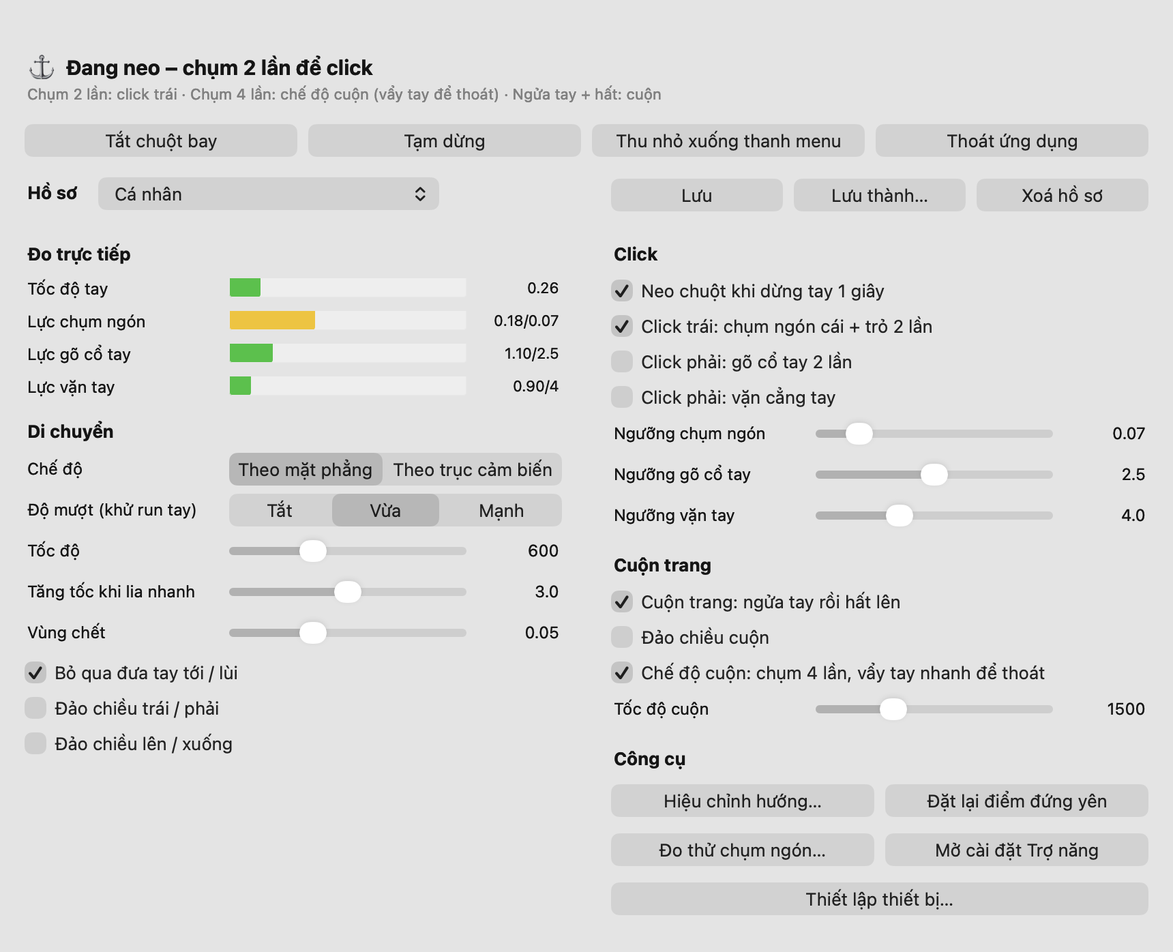
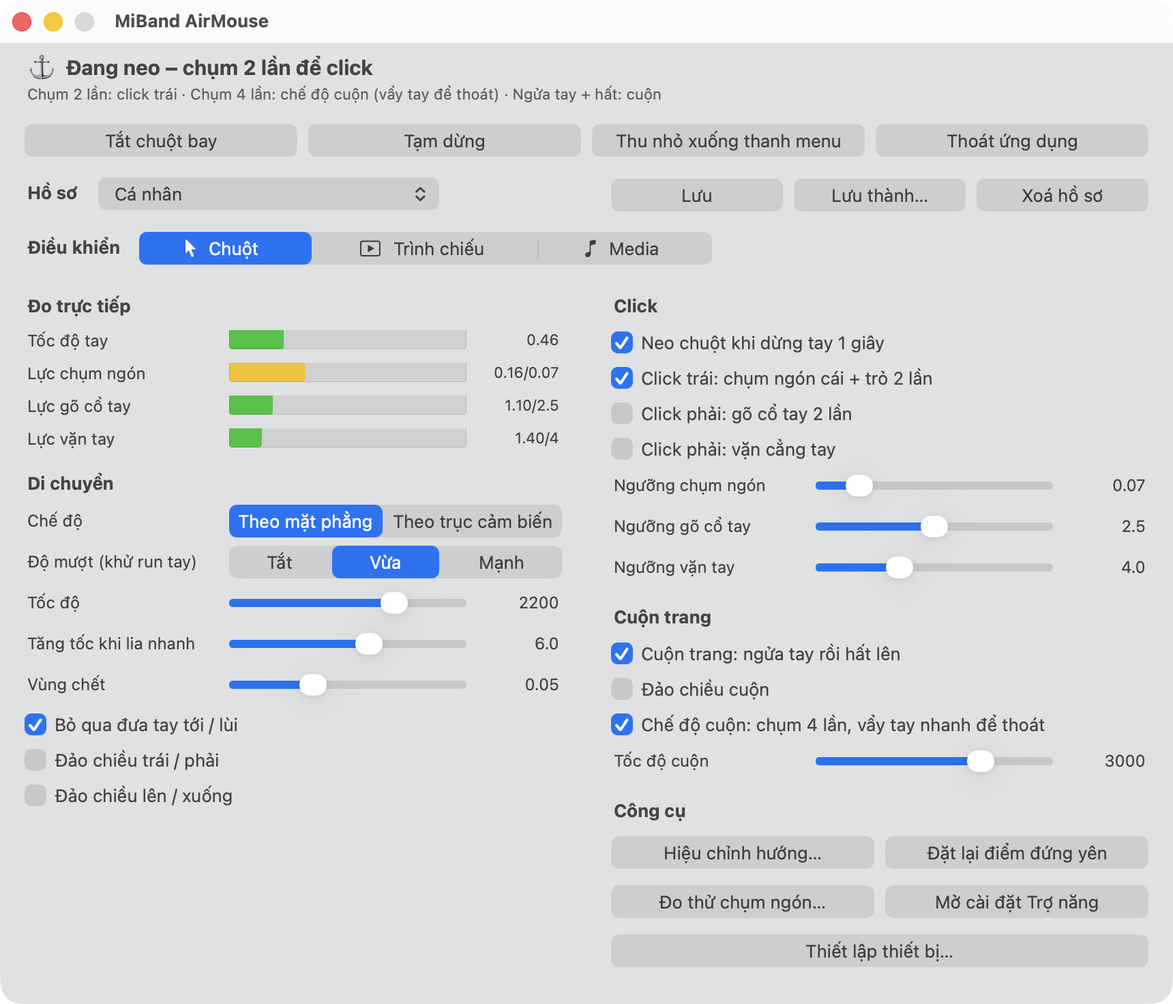
Add control modes: mouse, presenter and media (v1.3.0)
A picker in the control window (and the menu bar) chooses what the band
drives. In presenter and media modes the cursor stays still: a double
pinch is next slide / play-pause, quick straight swipes send arrow keys
or media keys (track, volume). The hand's way back after a swipe is
ignored for 0.8s. The guide gets a section on the modes and a new
control window picture.

diff --git a/docs/index.html b/docs/index.html
@@ -180,6 +180,7 @@ html { scroll-behavior: smooth; }
       <li><a href="#hieu-chinh">Hiệu chỉnh hướng</a></li>
       <li><a href="#trang-thai">Đọc biểu tượng trạng thái</a></li>
       <li><a href="#cu-chi">Các cử chỉ</a></li>
+      <li><a href="#che-do">Chế độ Trình chiếu và Media</a></li>
       <li><a href="#tinh-chinh">Tinh chỉnh và hồ sơ</a></li>
       <li><a href="#su-co">Xử lý sự cố</a></li>
     </ol>
@@ -291,6 +292,8 @@ html { scroll-behavior: smooth; }
         <div class="icon-row"><span class="glyph">⌚⚓</span><span>Chuột đang neo, sẵn sàng click</span></div>
         <div class="icon-row"><span class="glyph">⌚⇕</span><span>Chế độ cuộn (chụm 4 lần)</span></div>
         <div class="icon-row"><span class="glyph">⌚⇅</span><span>Đang ngửa tay để cuộn nhanh</span></div>
+        <div class="icon-row"><span class="glyph">⌚▶</span><span>Chế độ Trình chiếu</span></div>
+        <div class="icon-row"><span class="glyph">⌚♫</span><span>Chế độ Media</span></div>
         <div class="icon-row"><span class="glyph">⌚‖</span><span>Tạm dừng</span></div>
         <div class="icon-row"><span class="glyph">⌚!</span><span>Có lỗi, xem dòng trạng thái</span></div>
       </div>
@@ -418,17 +421,39 @@ html { scroll-behavior: smooth; }
       <p class="note">Click phải đang <strong>tắt</strong> theo mặc định, vì bấm ngón tay mạnh dễ bị nhận nhầm. Nếu cần, bật <b>Click phải: gõ cổ tay 2 lần</b> trong cửa sổ điều khiển. Khi đó gõ cổ tay ra trước 2 lần sẽ là click phải.</p>
     </section>
 
+    <section id="che-do">
+      <h2><span class="n">8</span>Chế độ Trình chiếu và Media</h2>
+      <p>Hàng <b>Điều khiển</b> ở đầu cửa sổ (hoặc mục <b>Che do dieu khien</b> trên thanh menu) chọn vòng tay dùng để làm gì. Ở <b>Trình chiếu</b> và <b>Media</b>, con trỏ đứng yên và cử chỉ trở thành lệnh, nên bạn có thể vừa nói vừa cầm vòng mà không lo chuột chạy lung tung.</p>
+      <div class="table-wrap">
+        <table>
+          <tr><th>Cử chỉ</th><th>Chuột</th><th>Trình chiếu</th><th>Media</th></tr>
+          <tr><td>Chụm 2 lần</td><td>Click trái</td><td>Slide tiếp</td><td>Phát / dừng</td></tr>
+          <tr><td>Lia tay nhanh sang phải</td><td>Di chuột</td><td>Slide tiếp</td><td>Bài sau</td></tr>
+          <tr><td>Lia tay nhanh sang trái</td><td>Di chuột</td><td>Slide trước</td><td>Bài trước</td></tr>
+          <tr><td>Lia tay nhanh lên / xuống</td><td>Di chuột</td><td>–</td><td>Tăng / giảm âm lượng</td></tr>
+          <tr><td>Chụm 4 lần, ngửa tay</td><td>Cuộn trang</td><td>–</td><td>–</td></tr>
+        </table>
+      </div>
+      <ul>
+        <li><b>Lia dứt khoát:</b> một cú lia nhanh, dài khoảng 10° trở lên, đi gần thẳng một hướng. Rê tay chậm hay lia chéo không tính.</li>
+        <li><b>Đưa tay về từ từ:</b> trong 0,8 giây sau một cú lia, động tác đưa tay về bị bỏ qua. Sau đó, đưa tay về chậm để không thành cú lia ngược lại.</li>
+        <li><b>Trình chiếu</b> gửi phím mũi tên phải / trái, chạy được với Keynote, PowerPoint, Google Slides và trình xem PDF. Hãy để cửa sổ trình chiếu ở phía trước.</li>
+        <li><b>Media</b> dùng phím phát nhạc của Mac, nên điều khiển được Apple Music, Spotify, YouTube trên trình duyệt…</li>
+        <li>Chụm 2 lần luôn hoạt động ở hai chế độ này, kể cả khi ô <b>Click trái</b> đang tắt. Chế độ đang chọn không lưu theo hồ sơ.</li>
+      </ul>
+    </section>
+
     <section id="tinh-chinh">
-      <h2><span class="n">8</span>Tinh chỉnh và hồ sơ</h2>
+      <h2><span class="n">9</span>Tinh chỉnh và hồ sơ</h2>
       <p>Bấm biểu tượng app trên Dock để mở cửa sổ điều khiển. Mọi thanh trượt có hiệu lực ngay khi kéo. Phần <b>Đo trực tiếp</b> cho thấy lực mỗi cử chỉ so với ngưỡng: thanh chuyển vàng khi vượt ngưỡng, nhờ vậy bạn biết nên chỉnh lên hay xuống.</p>
       <figure class="shot">
-        <img src="img/control.png" width="860" height="698" alt="Cửa sổ điều khiển với các thanh đo trực tiếp, thanh trượt và công tắc cử chỉ">
+        <img src="img/control.png" width="860" height="736" alt="Cửa sổ điều khiển với các thanh đo trực tiếp, thanh trượt và công tắc cử chỉ">
         <figcaption>Cửa sổ điều khiển. Thu nhỏ hoặc đóng thì app vẫn chạy trên thanh menu ⌚.</figcaption>
       </figure>
       <div class="table-wrap">
         <table>
           <tr><th>Muốn</th><th>Chỉnh</th></tr>
-          <tr><td>Tay di ít mà vẫn đi hết màn hình</td><td><b>Tăng tốc khi lia nhanh</b> lên khoảng 3–5. Giữ <b>Tốc độ</b> ở khoảng 600.</td></tr>
+          <tr><td>Tay di ít mà vẫn đi hết màn hình</td><td>Tăng <b>Tốc độ</b> (tối đa 3000) và <b>Tăng tốc khi lia nhanh</b> (tối đa 10). Nếu con trỏ bắt đầu rung, tăng thêm <b>Vùng chết</b>.</td></tr>
           <tr><td>Con trỏ rung khi nhắm</td><td><b>Độ mượt</b>: Mạnh. Hoặc tăng <b>Vùng chết</b> một chút.</td></tr>
           <tr><td>Chụm ngón hay bị hụt</td><td><b>Ngưỡng chụm ngón</b> khoảng <span class="mono">0.06–0.08</span>. Đừng hạ thấp hơn: khi đó cả rung lúc nhả ngón cũng bị đếm, làm click hụt nhiều hơn.</td></tr>
           <tr><td>Trang cuộn ngược ý</td><td>Bật <b>Đảo chiều cuộn</b>.</td></tr>
@@ -439,7 +464,7 @@ html { scroll-behavior: smooth; }
     </section>
 
     <section id="su-co">
-      <h2><span class="n">9</span>Xử lý sự cố</h2>
+      <h2><span class="n">10</span>Xử lý sự cố</h2>
       <div class="table-wrap">
         <table>
           <tr><th>Hiện tượng</th><th>Cách xử lý</th></tr>

diff --git a/app.py b/app.py
@@ -15,7 +15,7 @@ from collections import deque
 
 import Quartz
 import rumps
-from AppKit import NSApplication, NSApplicationActivationPolicyAccessory
+from AppKit import NSApplication, NSApplicationActivationPolicyAccessory, NSEvent
 
 from band import Band
 from watch_source import WatchSource
@@ -33,11 +33,12 @@ LOG = os.path.join(DATA, "app.log")
 REQUESTS = set()  # "show" / "quit" asked for by the Dock launcher's signals
 PARENT = os.getppid()  # the Dock launcher; if it dies without signalling, don't linger
 DEFAULT_PROFILE = "Mặc định"
-PROFILE_SKIP = {"gestures_v2", "gestures_v3"}
+PROFILE_SKIP = {"gestures_v2", "gestures_v3", "control_mode"}  # the mode is a moment's choice, not tuning
 
 SPEEDS = {"Cham": 300, "Vua": 600, "Nhanh": 1000}
 ACCELS = {"Tat": 0.0, "Vua": 1.5, "Manh": 3.0, "Rat manh": 5.0}
 MODES = {"Theo mat phang (khuyen dung)": "plane", "Theo truc cam bien (cu)": "axes"}
+CONTROL_MODES = {"Chuot": "mouse", "Trinh chieu": "slides", "Media (nhac, video)": "media"}
 CLICK_LEVELS = {"Nhay": 2.5, "Vua": 4.0, "Cung": 6.0}  # twist rate (gyro units) that counts as a click
 # Jolt (m/s^2) above which a transient is a wrist tap rather than a pinch; must stay between
 # the user's strongest pinch (1.2) and weakest tap (3.3).
@@ -56,6 +57,7 @@ DEFAULTS.update({"mode": "plane", "forearm_axis": "x", "invert_yaw": False, "inv
                  "pinch_enabled": True, "pinch_threshold": 0.1,  # rad/s gyro jerk (rest <0.021, pinches 0.19-0.40)
                  "scroll_enabled": True, "scroll_speed": 1500, "scroll_invert": False,  # px per rad of flick
                  "smoothing": "Vua", "drag_scroll_enabled": True,
+                 "control_mode": "mouse",  # or "slides" (presenter) / "media" (music, video)
                  "device": "miband"})  # or "applewatch"
 
 
@@ -109,6 +111,16 @@ JOY_DEAD = 0.05        # rad (~3 deg) of height change that doesn't scroll (rest
 JOY_CURVE = 1.7        # speed ~ (angle past JOY_DEAD)^JOY_CURVE: a slight tilt reads, a big one races
 JOY_GAIN = 3.0         # speed in px/s = scroll_speed * JOY_GAIN * angle^JOY_CURVE
 JOY_MAX = 0.8          # rad; tilting further doesn't scroll faster
+# Presenter / media modes: the cursor stays put; a quick swipe of the hand is a command.
+SWIPE_START = 0.8      # rad/s: hand speed above which a stroke is being collected
+SWIPE_RATE = 1.5       # rad/s peak a stroke needs to be a swipe (relaxed pointing ~0.5-1.5)
+SWIPE_ANGLE = 0.2      # rad (~11 deg) a swipe must travel
+SWIPE_RATIO = 1.5      # the main direction must be this much larger than the other
+SWIPE_GUARD = 0.8      # s after a swipe in which the hand's way back is ignored
+VOLUME_STEPS = 2       # volume key presses per swipe up/down
+KEY_RIGHT, KEY_LEFT = 124, 123        # macOS virtual key codes
+MEDIA_PLAY, MEDIA_NEXT, MEDIA_PREVIOUS = 16, 17, 18   # NX_KEYTYPE_* (ev_keymap.h)
+MEDIA_SOUND_UP, MEDIA_SOUND_DOWN = 0, 1
 SERIES_SETTLE = 0.25   # s after a toggle/click in which pinch echoes can't start a new series
 PINCH_CONFIRM = 0.12   # s after a pinch in which the hand must stay put for it to count
 CONFIRM_RATE = 0.35    # rad/s: average band rotation in that time above which it was a sweep starting
@@ -276,6 +288,8 @@ class Pointer:
         self.dragging = False      # scroll mode (toggled by four pinches)
         self.joy_ref = None        # forearm height (up . forearm axis) when scroll mode started
         self.joy_drop = 0.0        # integrated hand drop, when gravity can't tell (sensor-axis mode)
+        self.stroke = None         # [dx, dy, peak speed] of a possible swipe (presenter / media)
+        self.swipe_guard = 0.0
         self.pending_click = None  # time a double pinch turns into a click unless a 3rd pinch comes
         self.settle_until = 0.0
         self.tentative = None     # a pinch awaiting confirmation that the hand stayed put
@@ -413,7 +427,11 @@ class Pointer:
             self.bias = _add(_scale(self.bias, 0.95), _scale(mean, 0.05))
         self._check_rest(still, gyro, now)
 
-        self._update_palm(now)
+        mouse = self.s["control_mode"] == "mouse"
+        if not mouse and (self.dragging or self.palm_up):
+            self.dragging = self.palm_up = False  # scrolling belongs to mouse mode
+        if mouse:
+            self._update_palm(now)
         ax, ay, at = AXIS[self.s["axis_x"]], AXIS[self.s["axis_y"]], self.twist_axis()
         plane = self.s["mode"] == "plane"
         thr = self.s["click_threshold"]
@@ -466,6 +484,12 @@ class Pointer:
             else:
                 gx, gy = w[ax], w[ay]
                 inv_x, inv_y = self.s["invert_x"], self.s["invert_y"]
+            if not mouse:
+                # Presenter / media: the cursor stays put. Swipes are commands; the anchor still
+                # runs, so a resting hand's double pinch is heard.
+                self._swipe(gx * (-1 if inv_x else 1), gy * (-1 if inv_y else 1), ts, dt)
+                self._anchored(gx, gy, ts, dt, tapping)
+                continue
             if self.palm_up:
                 # Palm turned up: the cursor holds still and upward flicks scroll the page.
                 self._scroll_flick(gy * (1 if inv_y else -1), dt)  # physical upward speed
@@ -620,7 +644,7 @@ class Pointer:
         """After the hand rests for anchor_time the cursor locks in place, so small tremor and
         the jolt of tapping can't nudge it off the target. A deliberate move (net turn of
         ESCAPE_ANGLE of net travel, see below) releases it."""
-        if not self.s["anchor_enabled"]:
+        if not self.s["anchor_enabled"] and self.s["control_mode"] == "mouse":
             self.anchored = False
             return False
         # Judge rest on ~0.1s-averaged motion: single samples of hand tremor must not keep
@@ -744,7 +768,8 @@ class Pointer:
         elif kind == "tap":
             self.last_tap = start
         log(f"{kind or 'transient'} jolt={jolt:.2f} jerk={jerk:.3f} rate={rate:.2f} drift={drift:.2f}")
-        if not kind or not self.s[f"{kind}_enabled"]:
+        enabled = kind and (self.s[f"{kind}_enabled"] or kind == "pinch" and self.s["control_mode"] != "mouse")
+        if not enabled:
             return
         if kind == "pinch" and start < self.settle_until:
             log("pinch ignored (settling after a toggle/click)")
@@ -774,7 +799,8 @@ class Pointer:
             self.first = {}
             self._press(right=True)  # two wrist taps = right click
             return
-        enabled = self.s["drag_scroll_enabled"]
+        mouse = self.s["control_mode"] == "mouse"
+        enabled = self.s["drag_scroll_enabled"] and mouse
         if count >= SCROLL_PINCHES and enabled:
             self.first, self.pending_click = {}, None
             self._set_scroll_mode(not self.dragging, start)  # four pinches: scroll mode (on/off)
@@ -789,10 +815,72 @@ class Pointer:
                 self.pending_click = start + TRIPLE_GAP + EVENT_WINDOW + PINCH_CONFIRM
             else:
                 self.first = {}
-                self._press(right=False)  # two pinches = left click
+                if mouse:
+                    self._press(right=False)  # two pinches = left click
+                else:
+                    self._command("pinch")
                 self.settle_until = start + SERIES_SETTLE
         elif count == 3:
             self.pending_click = None  # three pinches: heading for four, not a click
+
+    def _swipe(self, sx, sy, ts, dt):
+        """A quick, mostly straight stroke of the hand (sx > 0 = right, sy > 0 = down, rad/s)
+        is a swipe, judged once the hand slows down again. Pointing-speed motion isn't."""
+        if ts < self.swipe_guard:
+            self.stroke = None  # the hand coming back after a swipe
+            return
+        speed = math.hypot(sx, sy)
+        if speed > SWIPE_START:
+            if self.stroke is None:
+                self.stroke = [0.0, 0.0, 0.0]
+            st = self.stroke
+            st[0], st[1], st[2] = st[0] + sx * dt, st[1] + sy * dt, max(st[2], speed)
+            return
+        if self.stroke is None:
+            return
+        dx, dy, peak = self.stroke
+        self.stroke = None
+        if peak < SWIPE_RATE or math.hypot(dx, dy) < SWIPE_ANGLE:
+            return
+        if abs(dx) >= SWIPE_RATIO * abs(dy):
+            direction = "right" if dx > 0 else "left"
+        elif abs(dy) >= SWIPE_RATIO * abs(dx):
+            direction = "down" if dy > 0 else "up"
+        else:
+            log(f"swipe ignored: diagonal ({dx:.2f}, {dy:.2f})")
+            return
+        self.swipe_guard = ts + SWIPE_GUARD
+        self.anchored, self.escape, self.first, self.pending_click = False, [], {}, None
+        self._command(direction)
+
+    def _command(self, gesture):
+        """What a gesture does in presenter / media mode."""
+        if self.paused:
+            return
+        mode = self.s["control_mode"]
+        if mode == "slides":
+            key = {"pinch": KEY_RIGHT, "right": KEY_RIGHT, "left": KEY_LEFT}.get(gesture)
+            if key is not None:
+                self._key(key)
+                log(f"slides: {gesture} -> {'next' if key == KEY_RIGHT else 'previous'}")
+        elif mode == "media":
+            keys = {"pinch": [MEDIA_PLAY], "right": [MEDIA_NEXT], "left": [MEDIA_PREVIOUS],
+                    "up": [MEDIA_SOUND_UP] * VOLUME_STEPS, "down": [MEDIA_SOUND_DOWN] * VOLUME_STEPS}[gesture]
+            for k in keys:
+                self._media_key(k)
+            log(f"media: {gesture}")
+
+    def _key(self, code):
+        for down in (True, False):
+            Quartz.CGEventPost(Quartz.kCGHIDEventTap, Quartz.CGEventCreateKeyboardEvent(None, code, down))
+
+    def _media_key(self, key):
+        """Play/pause, next, volume... are not key codes but system-defined events (subtype 8),
+        the way the keyboard's media row sends them."""
+        for state in (0xA, 0xB):  # key down, key up
+            ev = NSEvent.otherEventWithType_location_modifierFlags_timestamp_windowNumber_context_subtype_data1_data2_(
+                14, (0, 0), state << 8, 0, 0, None, 8, (key << 16) | (state << 8), -1)
+            Quartz.CGEventPost(Quartz.kCGHIDEventTap, ev.CGEvent())
 
     def _click(self, direction):
         self._press(right=True)  # twist = right click (left click is the double pinch)
@@ -1009,6 +1097,9 @@ class AirMouseApp(rumps.App):
         click_menu = rumps.MenuItem("Do nhay click")
         for name, value in CLICK_LEVELS.items():
             click_menu.add(rumps.MenuItem(name, callback=self.set_click_level))
+        control_menu = rumps.MenuItem("Che do dieu khien")
+        for name in CONTROL_MODES:
+            control_menu.add(rumps.MenuItem(name, callback=self.set_control_mode))
         mode_menu = rumps.MenuItem("Che do di chuyen")
         for name in MODES:
             mode_menu.add(rumps.MenuItem(name, callback=self.set_mode))
@@ -1018,6 +1109,7 @@ class AirMouseApp(rumps.App):
             rumps.MenuItem("Thiet lap thiet bi...", callback=self.open_setup),
             rumps.MenuItem("Ho so"), None,
             self.toggle_item, self.pause_item, None,
+            control_menu, None,
             mode_menu, speed_menu, accel_menu, smooth_menu, None,
             self.anchor_item, self.pinch_item, pinch_menu, self.pinch_peak_item,
             self.tap_item, tap_menu, self.tap_peak_item, None,
@@ -1125,6 +1217,11 @@ class AirMouseApp(rumps.App):
         if self.state == "active":
             if p.paused:
                 return "‖  Tạm dừng"
+            mode = self.settings["control_mode"]
+            if mode == "slides":
+                return "▶  Trình chiếu – con trỏ đứng yên, cử chỉ điều khiển slide"
+            if mode == "media":
+                return "♫  Media – con trỏ đứng yên, cử chỉ điều khiển nhạc / video"
             if p.palm_up:
                 return "⇅  Chế độ cuộn trang (úp tay để quay lại)"
             if p.dragging:
@@ -1142,6 +1239,11 @@ class AirMouseApp(rumps.App):
         if self.state == "error":
             return getattr(self, "status_text", "")
         s = self.settings  # list only the gestures that are switched on
+        if s["control_mode"] == "slides":
+            return "Chụm 2 lần hoặc lia tay nhanh sang phải: slide tiếp · lia sang trái: slide trước"
+        if s["control_mode"] == "media":
+            return ("Chụm 2 lần: phát / dừng · lia phải / trái: bài sau / trước · "
+                    "lia lên / xuống: tăng / giảm âm lượng")
         parts = [("pinch_enabled", "Chụm 2 lần: click trái"),
                  ("drag_scroll_enabled", "Chụm 4 lần: chế độ cuộn (vẩy tay để thoát)"),
                  ("tap_enabled", "Gõ cổ tay 2 lần: click phải"),
@@ -1166,7 +1268,10 @@ class AirMouseApp(rumps.App):
         self.peak_item.title = f"Luc van gan day: {p.last_peak:.1f} (nguong {self.settings['click_threshold']})"
         self.tap_peak_item.title = f"Luc go gan day: {p.live_tap:.1f} (nguong {self.settings['tap_threshold']})"
         self.pinch_peak_item.title = f"Luc chum gan day: {p.live_pinch:.2f} (nguong {self.settings['pinch_threshold']})"
-        if state == "active" and p.palm_up:
+        mode = self.settings["control_mode"]
+        if state == "active" and mode != "mouse":
+            self.title = "⌚▶" if mode == "slides" else "⌚♫"
+        elif state == "active" and p.palm_up:
             self.title = "⌚⇅"
         elif state == "active" and p.dragging:
             self.title = "⌚⇕"
@@ -1184,6 +1289,8 @@ class AirMouseApp(rumps.App):
             self.menu["Do nhay click"][name].state = int(self.settings["click_threshold"] == value)
         for name, value in MODES.items():
             self.menu["Che do di chuyen"][name].state = int(self.settings["mode"] == value)
+        for name, value in CONTROL_MODES.items():
+            self.menu["Che do dieu khien"][name].state = int(self.settings["control_mode"] == value)
         self.click_item.state = int(self.settings["click_enabled"])
         self.anchor_item.state = int(self.settings["anchor_enabled"])
         self.tap_item.state = int(self.settings["tap_enabled"])
@@ -1316,6 +1423,17 @@ class AirMouseApp(rumps.App):
             time.sleep(0.2)
         if self.state == "calibrating":
             self.set_status("active", "Dang dieu khien chuot")
+
+    def set_control_mode(self, item):
+        self.set_control(CONTROL_MODES[item.title])
+
+    def set_control(self, mode):
+        """Mouse, presenter or media control (also from the window's picker)."""
+        self.settings["control_mode"] = mode
+        p = self.engine.pointer
+        p.stroke, p.pending_click, p.first = None, None, {}
+        log(f"control mode: {mode}")
+        self.save()
 
     def set_mode(self, item):
         self.settings["mode"] = MODES[item.title]

diff --git a/window.py b/window.py
@@ -39,6 +39,8 @@ CHECKS = [
 ]
 
 MODES = [("plane", "Theo mặt phẳng"), ("axes", "Theo trục cảm biến")]
+CONTROL_MODES = [("mouse", "Chuột", "cursorarrow"), ("slides", "Trình chiếu", "play.rectangle"),
+                 ("media", "Media", "music.note")]  # key, label, SF Symbol
 SMOOTH_NAMES = [("Tat", "Tắt"), ("Vua", "Vừa"), ("Manh", "Mạnh")]
 
 
@@ -193,6 +195,15 @@ class ControlWindow(NSObject):
         self._buttons([("Tắt chuột bay", "toggle"), ("Tạm dừng", "pause"), ("Thu nhỏ xuống thanh menu", "hide"),
                        ("Thoát ứng dụng", "quit")])
         self._profile_row()
+        self._label("Điều khiển", PAD, self.y + 5, 80, 13, bold=True)
+        self.seg_control = A.NSSegmentedControl.segmentedControlWithLabels_trackingMode_target_action_(
+            [label for _, label, _ in CONTROL_MODES], A.NSSegmentSwitchTrackingSelectOne, self, "controlChanged:")
+        for i, (_, label, symbol) in enumerate(CONTROL_MODES):
+            self.seg_control.setImage_forSegment_(
+                A.NSImage.imageWithSystemSymbolName_accessibilityDescription_(symbol, label), i)
+        self.seg_control.setFrame_(A.NSMakeRect(PAD + 84, self.h - self.y - 28, 420, 28))
+        self.view.addSubview_(self.seg_control)
+        self.y += 38
         top = self.y
 
         self.x0, self.cw = 0, CW  # left column: what the hand does, and how it moves the cursor
@@ -294,6 +305,10 @@ class ControlWindow(NSObject):
         self.app.apply_profile(sender.titleOfSelectedItem())
         self.refresh(force=True)
 
+    def controlChanged_(self, sender):
+        self.app.set_control(CONTROL_MODES[sender.selectedSegment()][0])
+        self.refresh(force=True)
+
     def segmentChanged_(self, sender):
         key = self.tag_keys[sender.tag()]
         items = MODES if key == "mode" else SMOOTH_NAMES
@@ -350,4 +365,5 @@ class ControlWindow(NSObject):
         for key, box in self.checks.items():
             box.setState_(1 if self._get(key) else 0)
         self.seg_mode.setSelectedSegment_([k for k, _ in MODES].index(s["mode"]))
+        self.seg_control.setSelectedSegment_([m[0] for m in CONTROL_MODES].index(s["control_mode"]))
         self.seg_smooth.setSelectedSegment_([k for k, _ in SMOOTH_NAMES].index(s["smoothing"]))

diff --git a/README.md b/README.md
@@ -21,6 +21,14 @@ Lia cẳng tay để di chuyển con trỏ, chụm ngón tay để click, chụm
 | Lật ngửa tay rồi hất lên | Cuộn trang nhanh |
 | Đưa tay tới hoặc kéo về | Được bỏ qua, con trỏ đứng yên |
 
+**Chế độ điều khiển** (chọn ngay trên cửa sổ app):
+
+| Cử chỉ | 🖱 Chuột | ▶ Trình chiếu | 🎵 Media |
+|---|---|---|---|
+| Chụm 2 lần | Click trái | Slide tiếp | Phát / dừng |
+| Lia nhanh sang phải / trái | Di chuột | Slide tiếp / trước | Bài sau / trước |
+| Lia nhanh lên / xuống | Di chuột | – | Tăng / giảm âm lượng |
+
 Ngoài ra:
 - **Thiết lập lần đầu bằng mã QR**: đăng nhập tài khoản Xiaomi bằng app Mi Fitness / Xiaomi Home để lấy token của vòng, không cần nhập mật khẩu.
 - **Cửa sổ điều khiển**: đo trực tiếp lực từng cử chỉ so với ngưỡng, thanh trượt cho mọi thông số, chạy nền trên thanh menu.
@@ -129,4 +137,4 @@ Dự án cá nhân, không liên quan tới Xiaomi. Xiaomi, Mi Band và Mi Fitne
 
 ### English
 
-MiBand AirMouse turns a **Xiaomi Smart Band 10** into an air mouse for macOS: point with your forearm to move the cursor, double-pinch thumb and index finger to click, pinch four times to scroll. It talks to the band directly over BLE (Xiaomi's encrypted "BLE V2" protocol, ported from Gadgetbridge) and streams the raw accelerometer/gyroscope through a hidden workout session. First-run setup fetches the band's auth key by QR login to your Xiaomi account. Download the prebuilt app (Python bundled; arm64 or x86_64) from [Releases](https://github.com/thanhhaiwork1998/miband-airmouse/releases/latest); on first launch allow it under System Settings → Privacy & Security → Open Anyway, since it is not notarized. Or run from source with the commands above (clone into `~/airmouse`). Licensed under AGPL-3.0.
+MiBand AirMouse turns a **Xiaomi Smart Band 10** into an air mouse for macOS: point with your forearm to move the cursor, double-pinch thumb and index finger to click, pinch four times to scroll. Presenter and media modes turn pinches and quick swipes into slide, playback and volume commands. It talks to the band directly over BLE (Xiaomi's encrypted "BLE V2" protocol, ported from Gadgetbridge) and streams the raw accelerometer/gyroscope through a hidden workout session. First-run setup fetches the band's auth key by QR login to your Xiaomi account. Download the prebuilt app (Python bundled; arm64 or x86_64) from [Releases](https://github.com/thanhhaiwork1998/miband-airmouse/releases/latest); on first launch allow it under System Settings → Privacy & Security → Open Anyway, since it is not notarized. Or run from source with the commands above (clone into `~/airmouse`). Licensed under AGPL-3.0.
